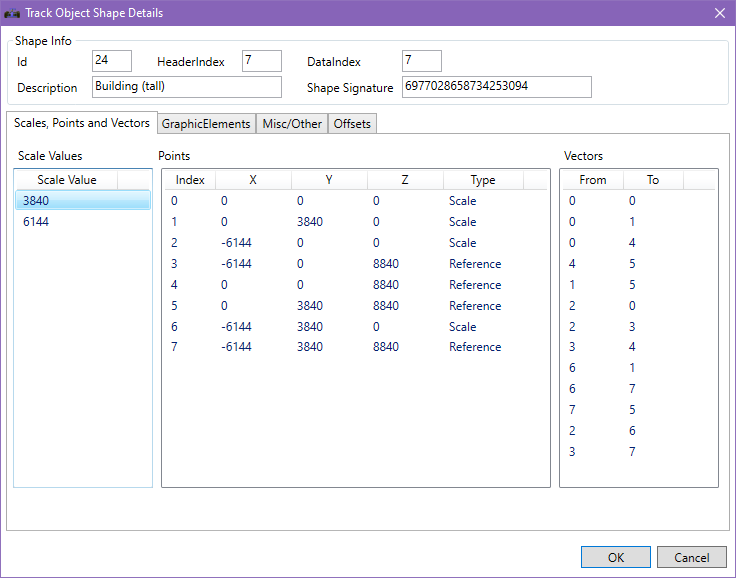
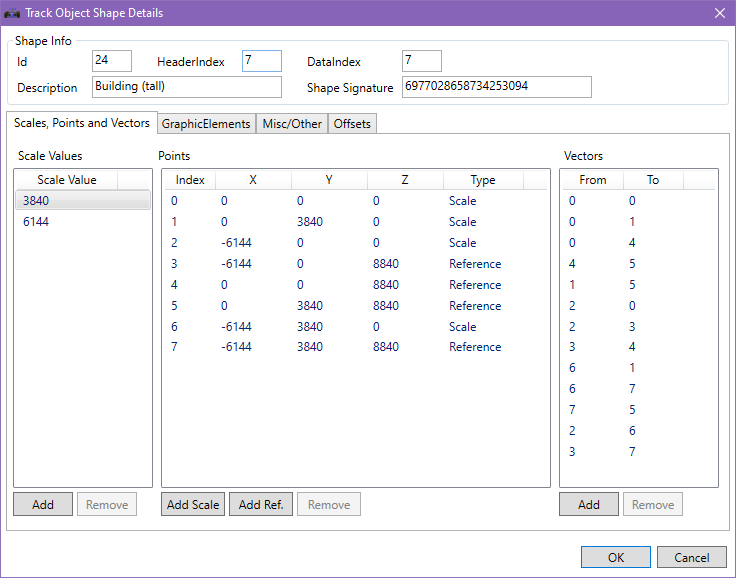
Update documentation

diff --git a/Docs/site/content/screens/object-shape-details-window.md b/Docs/site/content/screens/object-shape-details-window.md
@@ -48,15 +48,24 @@ At the top, you get some information about the shape.
 Below this data, there are four tabs.
 
 
-### Scales, Points and Vectors
+## Scales, Points and Vectors
 
 This tab allows you to edit the basic 3D shape of the object.
 
-_Note: You can currently only edit existing values here. Future versions of ArgTrack will allow you to add or remove values._
+### Scales
 
-A scale value is used as values in the point definitions. By double-clicking one of the values in the list you can edit it.
+A scale value is used as values in the point definitions.
+
+Use the "Add" button to add a new scale value, which can then be used
+in a scale point.
+
+Use the "Remove" button to delete the selected scale value. This is only available if the scale value
+is not used in any point. Otherwise, the button is disabled.
 
 <img alt="Object shape scale value editing" src="/argtrack/images/object-shape-details-edit-scalevalue.png" class="img-fluid" />
+
+
+### Points
 
 A point can be of two types, either a scale point or a reference point.
 
@@ -64,24 +73,39 @@ A scale point uses one of the values if the scale values list for its X coordina
 
 Double-clicking a scale point allows you to edit its X and Y scale value references, as well as its Z value.
 
+Use the "Add Scale" button to add a new scale point, which uses scale values to set the
+X and Y coordinates.
+
 <img alt="Object shape scale point editing" src="/argtrack/images/object-shape-details-edit-scalepoint.png" class="img-fluid" />
 
 A reference point uses a previously defined point to get its X and Y coordinates.
 
 Double-clicking on a reference point allows you to select which other point it gets its X and Y coordinates from, as well as its Z value.
 
+Use the "Add Ref." button to add a new reference point, which uses the same X and Y coordinates as
+a previously defined scale point.
+
+Use the "Remove" button to delete the selected point. This is only available if the point
+is not used in any vector. Otherwise, the button is disabled.
+
 <img alt="Object shape reference point editing" src="/argtrack/images/object-shape-details-edit-refpoint.png" class="img-fluid" />
 
+
+### Vectors
 
 Vectors define how the various points are connected to each other. Each vector has a point it goes from, and a point it goes to.
 
 Double-clicking a vector allows you to edit which points it goes from and to.
 
+Use the "Add" button to add a new vector.
+
+Use the "Remove" button to delete the selected vector.
+
 <img alt="Object shape vector editing" src="/argtrack/images/object-shape-details-edit-vector.png" class="img-fluid" />
 
 
 
-### GraphicElements
+## GraphicElements
 
 This tab allows you to edit two types of information, GraphicElements and GraphicElementLists.
 
@@ -90,11 +114,11 @@ Both are currently just edited as a set of raw bytes.
 For 3D shapes, the GraphicElements contain references to vectors and color information for the polygon that they defined. For some shapes that also contain flat objects, some data here refers to which "flat" object that will be displayed.
 
 
-### Misc/Other
+## Misc/Other
 
 These are various headers and other values that are either irrelevant or not fully understood yet.
 
 
-### Offsets
+## Offsets
 
 These are the offsets of the various data in the file. You cannot edit these.

diff --git a/Docs/site/content/overview.md b/Docs/site/content/overview.md
@@ -49,7 +49,7 @@ you to manipulate the various data that describes the track.
 
 <img src="/argtrack/images/argtrack-main-focus-layout.png" alt="ArgTrack main window" class="img-fluid" />
 
-The right part of the screen will display a track drawing. By default it draws the track and the pit lane.
+The right part of the screen will display a track drawing.
 
 Using the toolbar at the top, you can toggle what is drawn:
 
@@ -57,9 +57,10 @@ Using the toolbar at the top, you can toggle what is drawn:
 - Pit Lane
 - Verges
 - Track-side objects
+- Track-side objects (Pits)
 
 Track-side objects do not resemble what they actually are, but are just indications of where the center point of
-the track-side object is. Note that track-side objects placed in the pit lane are currently not displayed.
+the track-side object is.
 
 The Refresh button will force a redraw of the content.
 
